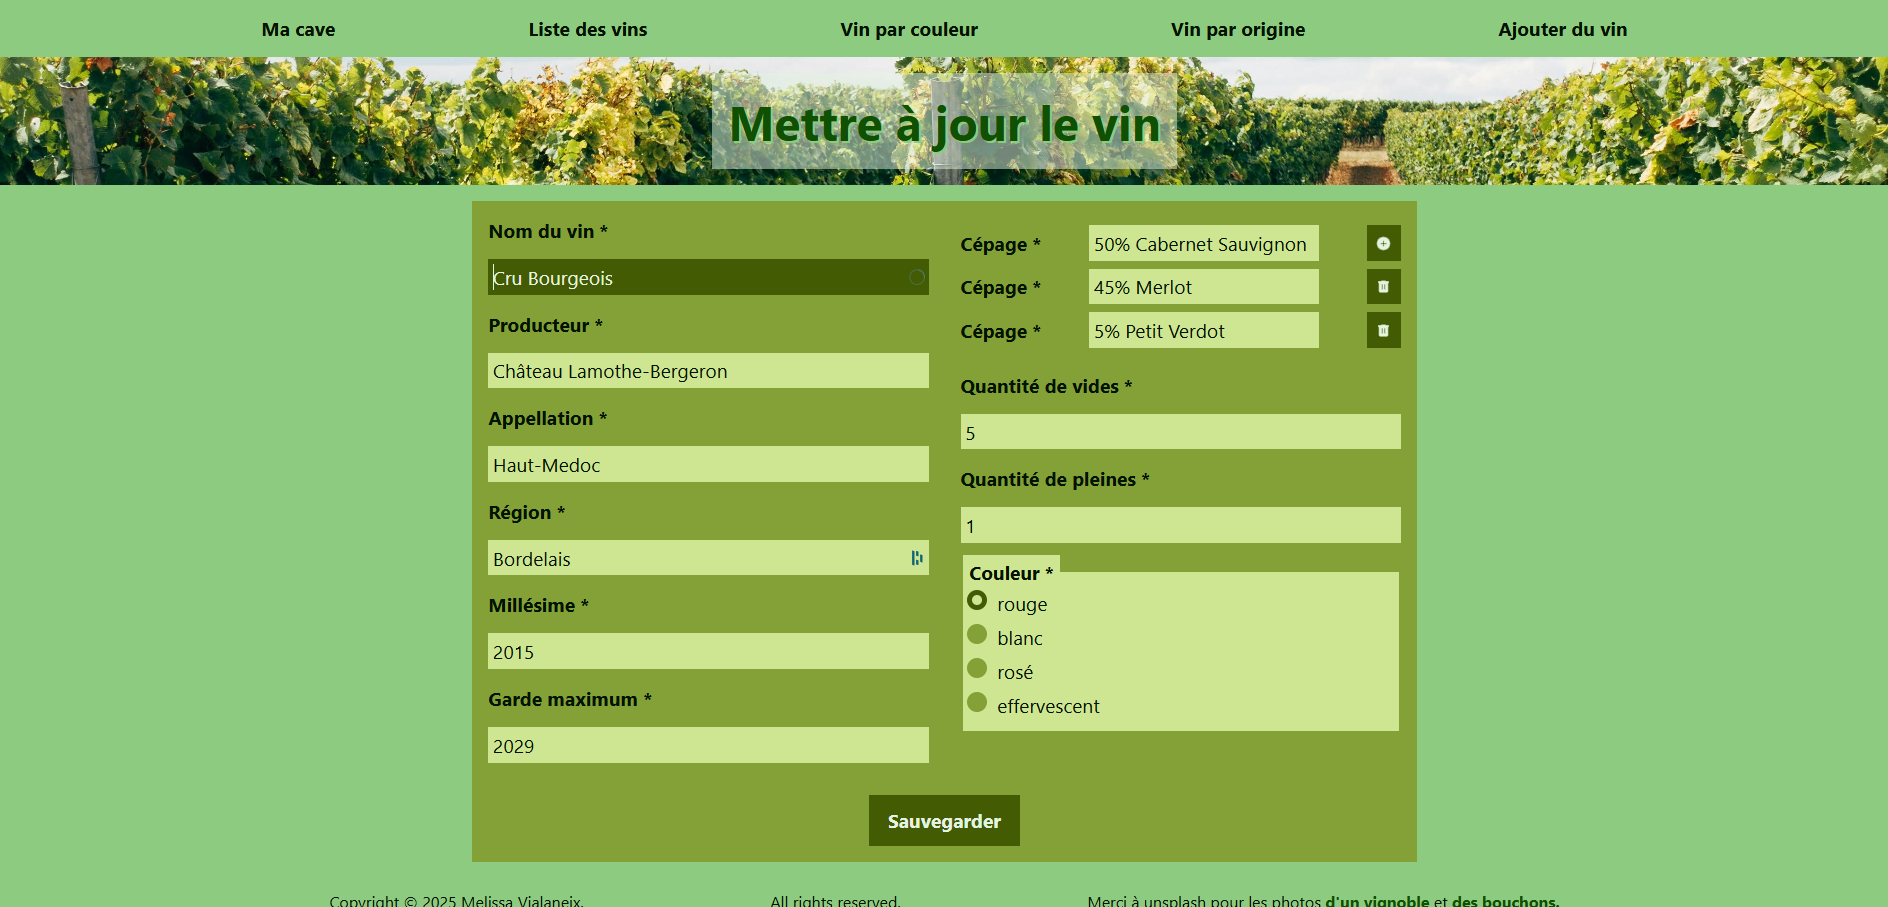
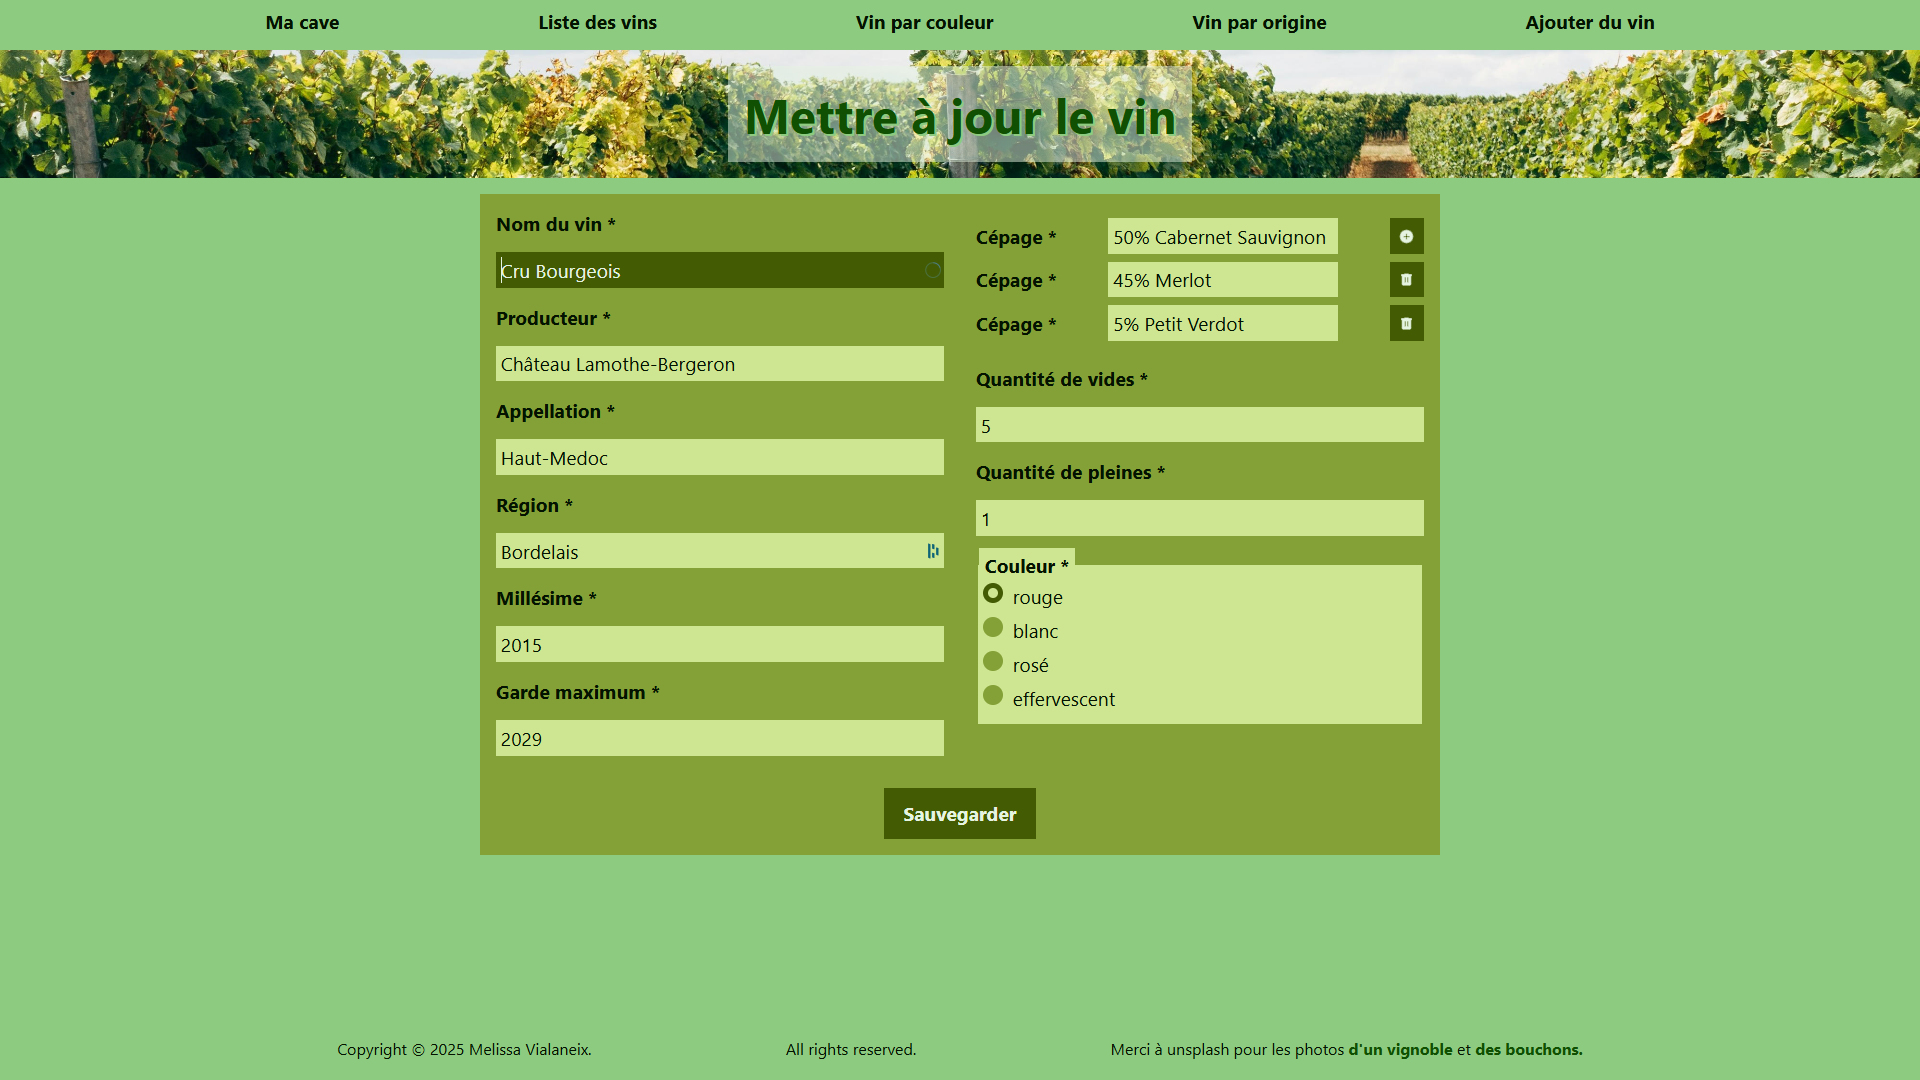
Update projects page and change color scheme
Add new project description and features to translations
Add new project screenshots to images folders
Make skills icons smaller on projects page
Change color scheme to two colors with better shades of contrast
Update colors used in styling throughout CSS modules
Test and check that everything works as expected

diff --git a/src/data/translations.js b/src/data/translations.js
@@ -32,8 +32,8 @@ const translations = {
         title: 'Blog App',
         previewUrl: 'https://blog-api-view.netlify.app/',
         githubUrl: 'https://github.com/Meltasy/blog-api',
-        description: 'Traditional blog platforms often tightly couple the content management system with the public-facing blog, creating security vulnerabilities and limiting flexibility. Content creators need separate, secure environments for writing and publishing content compared to reading and commenting on it, while maintaining a unified backend that serves both interfaces efficiently.',
-        solutions: ['Separating concerns: Distinct frontends for content creation vs. content', 'Enhanced security: Protected admin interface isolated from public blog', 'API-first approach: Flexible backend that can serve multiple clients', 'Modern authentication: JWT-based security with role-based access control', 'Scalable architecture: Modular design allowing independent scaling of components'],
+        description: 'A blog platform with a backend API supporting a public site for readers and a private dashboard for authors.',
+        solutions: ['🎎 Dual-purpose design: Clean Separation between content creation dashboard and public blog', '🔐 Smart access control: Role-based permissions keep admin functions secure from readers', '📝 Full content lifecycle: Draft, edit, publish and manage posts with complete workflow control', '💬 Engaging comment system: User accounts, threaded discussions, and self-managed comments', '🧩 Scalable architecture: Modular components that grow independently as needed', '📢 Live updates: Real-time content sync keeps everything fresh and responsive', '🔒 Enhanced security: Protected routes and authenticated sessions throughout'],
         skillsIcons: [JavaScript, React, ViteJS, NodeJS, Express, PostgreSQL, PrismaORM],
         imageKey: 'blogApi'
       },
@@ -42,13 +42,13 @@ const translations = {
         title: 'Wine Cellar App',
         previewUrl: 'https://inventory-application-production-b054.up.railway.app/',
         githubUrl: 'https://github.com/Meltasy/inventory-application',
-        description: 'Personal wine collectors face significant challenges managing their collections without proper digital infrastructure. Traditional methods like spreadsheets or paper records become unwieldly as collections grow, making it difficult to track optimal drinking windows, manage inventory levels, and efficiently locate specific wines by their characteristics. Wine enthusiasts need comprehensive tracking systems that can handle complex wine data while providing intuitive search and filtering capabilities.',
-        solutions: ['Centralized inventory management: Complete digital catalog with detailed wine information and quantity tracking', 'Intelligent drinking recommendations: Automated identification of wines at peak maturity or requiring immediate consumption', 'Advanced search capabilities: Multi-criteria filtering by color, producer, region, appellation, alphabetical sorting', 'Normalized data architecture: Efficient PostgreSQL database design preventing redundancy while maintaining data integrity', 'Full lifecycle tracking: Complete CRUD operations with transaction-safe quantity updates and consumption history'],
+        description: 'An inventory management system to catalog, track and manage the wine in my cellar, and to remind me when each bottle is ready for enjoying.',
+        solutions: ['📊 Smart inventory management: Digital wine catalog with real-time quantity tracking', '💡 Intelligent drinking recommendations: Automated identification for wines at peak maturity', '🔎 Advanced search and filtering: Find wines instantly by name, color, producer, region or appellation', '🍾 Complete wine lifecycle: Track every bottle from cellar to consumption', '🍷 Visual Status Indicators: At-a-glance inventory health and drinking recommendations', '💫 Seamless user experience: Responsive design with dynamic forms and real-time updates', '🔒 Data integrity assurance: Validated inputs and redundancy-free database architecture'],
         skillsIcons: [JavaScript, NodeJS, Express, PostgreSQL, PrismaORM],
         imageKey: 'inventoryApp'
       }
     ],
-    solutionsIntro: 'This project solves these challenges by:',
+    subTitle: 'Features',
     hobbies: [
       {
         title: 'Trail running',
@@ -112,7 +112,7 @@ const translations = {
         imageKey: 'inventoryApp'
       }
     ],
-    solutionsIntro: '',
+    subTitle: '',
     hobbies: [
       {
         title: 'Course de trail',

diff --git a/src/assets/globalStyles.css b/src/assets/globalStyles.css
@@ -1,15 +1,14 @@
 :root {
-  --text-color: rgb(0, 7, 7);
-  --background-color: rgb(231, 241, 241);
-  --primary-color: rgb(34, 103, 100);
-  --primary-color-light: rgb(98, 151, 149);
-  --primary-color-dark: rgb(1, 55, 53);
-  --secondary-color: rgb(79, 44, 115);
-  --secondary-color-light: rgb(140, 113, 168);
-  --secondary-color-dark: rgb(33, 6, 61);
-  --tertiary-color: rgb(158, 167, 56);
-  --tertiary-color-light: rgb(237, 245, 158);
-  --tertiary-color-dark: rgb(82, 89, 2);
+  --text-color: rgb(0, 18, 17);
+  --background-color: rgb(247, 255, 255);
+  --primary-color: rgb(0, 91, 87);
+  --primary-color-highlight: rgb(0, 173, 163);
+  --primary-color-light: rgb(188, 255, 251);
+  --primary-color-dark: rgb(0, 45, 43);
+  --secondary-color: rgb(48, 25, 52);
+  --secondary-color-highlight: rgb(191, 162, 195);
+  --secondary-color-light: rgb(242, 236, 243);
+  --secondary-color-dark: rgb(24, 12, 26);
 }
   
 body {
@@ -28,16 +27,28 @@ body {
 h1 {
   font-size: 3rem;
   color: var(--primary-color);
-  text-shadow: 2px 2px var(--primary-color-light);
+  text-shadow: 2px 2px var(--primary-color-highlight);
 }
 
 h2 {
   font-size: 2.5rem;
   color: var(--secondary-color);
-  text-shadow: 2px 2px var(--secondary-color-light);
+  text-shadow: 2px 2px var(--secondary-color-highlight);
 }
 
 h3 {
   font-size: 1.5rem;
   color: var(--secondary-color);
+  margin: 1rem 0;
+}
+
+h4 {
+  font-size: 1.2rem;
+  color: var(--secondary-color);
+  margin: 0.5rem 0;
+}
+
+ul {
+  padding: 0;
+  list-style-type: none;
 }

diff --git a/src/assets/Projects.module.css b/src/assets/Projects.module.css
@@ -9,14 +9,14 @@
   align-items: center;
   flex-wrap: wrap;
   gap: 1rem;
-  box-shadow: 2px 2px 2px 2px var(--secondary-color-light);
+  box-shadow: 0 0 5px 5px var(--secondary-color-light);
   padding: 1rem;
 }
 
 .textWrapper {
   flex: 1;
   width: 100%;
-  max-width: 600px;
+  max-width: 700px;
   margin: 0 auto;
 }
 
@@ -31,7 +31,7 @@
   font-weight: 700;
   text-decoration: none;
   color: var(--secondary-color-dark);
-  background-color: var(--secondary-color-light);
+  background-color: var(--secondary-color-highlight);
   border: none;
   padding: 0.8rem 1.6rem;
   margin: 0 0.5rem;
@@ -46,7 +46,6 @@
 .skillsIcons {
   display: flex;
   flex-wrap: wrap;
-  justify-content: center;
-  gap: 1rem;
+  gap: 0.5rem;
   padding-top: 1rem;
 }

diff --git a/src/pages/projects.jsx b/src/pages/projects.jsx
@@ -38,7 +38,7 @@ function Projects() {
                   </div>
                 </div>
                 <p>{project.description}</p>
-                <p>{trans('solutionsIntro')}</p>
+                <h4>{trans('subTitle')}</h4>
                 <ul>
                   {project.solutions.map((solution, index) => (
                     <li key={index}>{solution}</li>
@@ -46,7 +46,7 @@ function Projects() {
                 </ul>
                 <div className={styles.skillsIcons}>
                   {project.skillsIcons.map((Icon, index) => (
-                    <Icon key={index} />
+                    <Icon key={index} width='30' height='30'/>
                   ))}
                 </div>
               </div>

diff --git a/src/assets/ProjectsCarousels.module.css b/src/assets/ProjectsCarousels.module.css
@@ -11,7 +11,6 @@
   align-items: center;
   background-color: var(--secondary-color);
   overflow: hidden;
-  box-shadow: 2px 2px 2px var(--secondary-color-light);
 }
 
 .imgWrapper {
@@ -51,7 +50,7 @@
 }
 
 .carouselBtn:active {
-  color: var(--secondary-color);
+  color: var(--secondary-color-highlight);
 }
 
 .prevBtn {
@@ -86,7 +85,7 @@
 }
 
 .indicator.active {
-  background-color: var(--secondary-color);
+  background-color: var(--secondary-color-highlight);
   transform: scale(1.3);
 }
 

diff --git a/src/assets/TrailCarousel.module.css b/src/assets/TrailCarousel.module.css
@@ -11,7 +11,6 @@
   align-items: center;
   background-color: var(--secondary-color);
   overflow: hidden;
-  box-shadow: 2px 2px 2px var(--secondary-color-light);
 }
 
 .imgWrapper {
@@ -51,7 +50,7 @@
 }
 
 .carouselBtn:active {
-  color: var(--secondary-color);
+  color: var(--secondary-color-highlight);
 }
 
 .prevBtn {
@@ -86,7 +85,7 @@
 }
 
 .indicator.active {
-  background-color: var(--secondary-color);
+  background-color: var(--secondary-color-highlight);
   transform: scale(1.3);
 }
 

diff --git a/src/assets/FreeTime.module.css b/src/assets/FreeTime.module.css
@@ -11,14 +11,14 @@
   align-items: center;
   flex-wrap: wrap;
   gap: 1rem;
-  box-shadow: 2px 2px 2px 2px var(--secondary-color-light);
+  box-shadow: 0 0 5px 5px var(--secondary-color-light);
   padding: 1rem;
 }
 
 .textWrapper {
   flex: 1;
   width: 100%;
-  max-width: 600px;
+  max-width: 700px;
   margin: 0 auto;
 }
 

diff --git a/src/assets/NavBar.module.css b/src/assets/NavBar.module.css
@@ -33,7 +33,7 @@
 
 .active {
   color: var(--primary-color-dark);
-  background-color: var(--primary-color-light);
+  background-color: var(--primary-color-highlight);
 }
 
 .linkTitle:hover {
